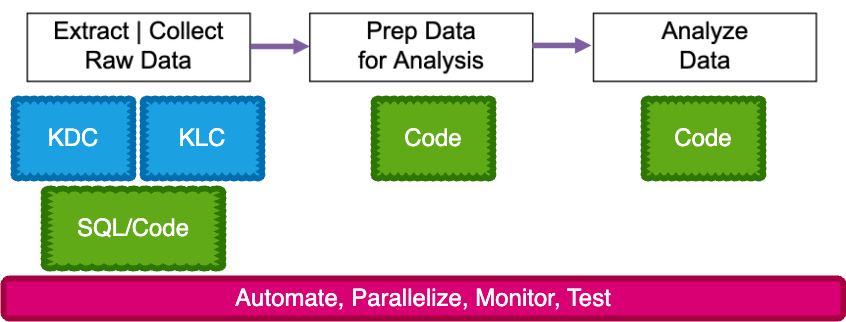
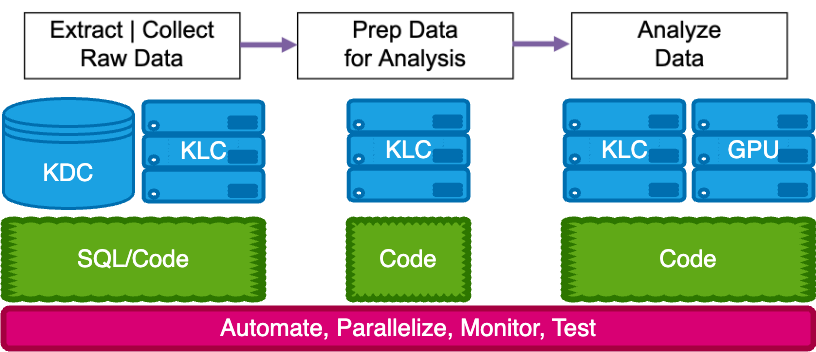
Update documentation

diff --git a/searchindex.js b/searchindex.js
@@ -1,1 +1,1 @@
-Search.setIndex({"alltitles": {"Data Workflow": [[0, null], [1, null], [2, null]], "Final Thoughts": [[4, "final-thoughts"]], "Introduction": [[0, "introduction"]], "Kellogg Data Cloud": [[1, "kellogg-data-cloud"]], "Kellogg Linux Cluster": [[2, "kellogg-linux-cluster"]], "Scaling with GPUs": [[3, "scaling-with-gpus"]], "Welcome": [[5, "welcome"]]}, "docnames": ["introduction", "kdc-datasets", "klc-datasets", "klc-gpus", "takeaways", "welcome"], "envversion": {"sphinx": 61, "sphinx.domains.c": 3, "sphinx.domains.changeset": 1, "sphinx.domains.citation": 1, "sphinx.domains.cpp": 9, "sphinx.domains.index": 1, "sphinx.domains.javascript": 3, "sphinx.domains.math": 2, "sphinx.domains.python": 4, "sphinx.domains.rst": 2, "sphinx.domains.std": 2, "sphinx.ext.intersphinx": 1, "sphinxcontrib.bibtex": 9}, "filenames": ["introduction.md", "kdc-datasets.md", "klc-datasets.md", "klc-gpus.md", "takeaways.md", "welcome.md"], "indexentries": {}, "objects": {}, "objnames": {}, "objtypes": {}, "terms": {"It": [], "The": 5, "Will": 1, "abstract": 0, "acces": 0, "access": [1, 2], "aim": 5, "ambreen": [], "analyz": [], "ani": [], "appli": [], "arg": 2, "argument": 0, "athena": 1, "autom": [0, 1, 2], "aw": 1, "bash": [], "book": 5, "bundl": [], "check": [], "clean": [], "cloud": 5, "cluster": 5, "code": [], "command": 0, "conda": [], "configur": 0, "content": [], "core": 2, "cpu": [], "data": 5, "datafram": 2, "dataset": [1, 2, 5], "datast": 0, "depth": [], "document": [], "doe": [], "duckdb": 2, "effect": 5, "effici": 1, "extract": [], "featur": 0, "feel": [], "few": [], "file": [], "final": 5, "give": 5, "go": [], "gpu": 5, "how": 1, "i": 5, "includ": [0, 2], "inform": [], "introduct": [1, 5], "job": 2, "jupyt": [], "kdc": 5, "kellogg": 5, "klc": [2, 5], "larg": [0, 5], "leverag": 1, "line": 0, "linux": 5, "load": 2, "log": [], "major": [], "memori": 2, "model": [], "monitor": 2, "more": [], "navig": 1, "need": 5, "node": 2, "numer": 1, "odbc": 1, "off": [], "out": [], "page": [], "parallel": 2, "particular": [], "partit": 1, "pipelin": [], "pointer": 1, "process": 0, "python": [], "queri": 1, "quest": [], "recur": [], "replic": 0, "research": 5, "resourc": [], "sampl": [], "scale": 5, "script": 2, "see": [], "show": [], "skill": 5, "slide": [], "slurm": [], "small": [], "some": [], "sql": 1, "structur": [], "support": 5, "test": 0, "theme": [], "thi": 5, "thought": 5, "topic": [], "traci": [], "type": [], "us": [], "usag": 2, "video": 1, "websit": 5, "well": [], "work": 5, "workflow": [], "workshop": 5, "write": 1, "you": 5}, "titles": ["Introduction", "Kellogg Data Cloud", "Kellogg Linux Cluster", "Scaling with GPUs", "Final Thoughts", "Welcome"], "titleterms": {"access": [], "athena": [], "autom": [], "book": [], "cloud": 1, "cluster": 2, "data": [0, 1, 2], "dataset": [], "extract": [], "final": 4, "gpu": 3, "introduct": 0, "job": [], "jupyt": [], "kellogg": [1, 2], "klc": [], "linux": 2, "log": [], "monitor": [], "parallel": [], "process": [], "queri": [], "research": [], "scale": 3, "sql": [], "support": [], "test": [], "thought": 4, "us": [], "welcom": 5, "workflow": [0, 1, 2], "write": [], "your": []}})
+Search.setIndex({"alltitles": {"Data Workflow": [[0, null], [1, null], [2, null], [3, null]], "Final Thoughts": [[4, "final-thoughts"]], "Introduction": [[0, "introduction"]], "Kellogg Data Cloud": [[1, "kellogg-data-cloud"]], "Kellogg Linux Cluster": [[2, "kellogg-linux-cluster"]], "Scaling with GPUs": [[3, "scaling-with-gpus"]], "Welcome": [[5, "welcome"]]}, "docnames": ["introduction", "kdc-datasets", "klc-datasets", "klc-gpus", "takeaways", "welcome"], "envversion": {"sphinx": 61, "sphinx.domains.c": 3, "sphinx.domains.changeset": 1, "sphinx.domains.citation": 1, "sphinx.domains.cpp": 9, "sphinx.domains.index": 1, "sphinx.domains.javascript": 3, "sphinx.domains.math": 2, "sphinx.domains.python": 4, "sphinx.domains.rst": 2, "sphinx.domains.std": 2, "sphinx.ext.intersphinx": 1, "sphinxcontrib.bibtex": 9}, "filenames": ["introduction.md", "kdc-datasets.md", "klc-datasets.md", "klc-gpus.md", "takeaways.md", "welcome.md"], "indexentries": {}, "objects": {}, "objnames": {}, "objtypes": {}, "terms": {"It": [], "The": 5, "Will": 1, "abstract": 0, "acces": 0, "access": [1, 2], "aim": 5, "ambreen": [], "analyz": [], "ani": [], "appli": [], "arg": 2, "argument": 0, "athena": 1, "autom": [0, 1, 2], "aw": 1, "bash": [], "book": 5, "bundl": [], "check": [], "clean": [], "cloud": 5, "cluster": 5, "code": [], "command": 0, "conda": [], "configur": 0, "content": [], "core": 2, "cpu": [], "data": 5, "datafram": 2, "dataset": [1, 2, 5], "datast": 0, "depth": [], "document": [], "doe": [], "duckdb": 2, "effect": 5, "effici": 1, "extract": [], "featur": 0, "feel": [], "few": [], "file": [], "final": 5, "give": 5, "go": [], "gpu": 5, "how": 1, "i": 5, "includ": [0, 2], "inform": [], "introduct": [1, 5], "job": 2, "jupyt": [], "kdc": 5, "kellogg": 5, "klc": [2, 5], "larg": [0, 5], "leverag": 1, "line": 0, "linux": 5, "load": 2, "log": [], "major": [], "memori": 2, "model": [], "monitor": 2, "more": [], "navig": 1, "need": 5, "node": 2, "numer": 1, "odbc": 1, "off": [], "out": [], "page": [], "parallel": 2, "particular": [], "partit": 1, "pipelin": [], "pointer": 1, "process": 0, "python": [], "queri": 1, "quest": [], "recur": [], "replic": 0, "research": 5, "resourc": [], "sampl": [], "scale": 5, "script": 2, "see": [], "show": [], "skill": 5, "slide": [], "slurm": [], "small": [], "some": [], "sql": 1, "structur": [], "support": 5, "test": 0, "theme": [], "thi": 5, "thought": 5, "topic": [], "traci": [], "type": [], "us": [], "usag": 2, "video": 1, "websit": 5, "well": [], "work": 5, "workflow": [], "workshop": 5, "write": 1, "you": 5}, "titles": ["Introduction", "Kellogg Data Cloud", "Kellogg Linux Cluster", "Scaling with GPUs", "Final Thoughts", "Welcome"], "titleterms": {"access": [], "athena": [], "autom": [], "book": [], "cloud": 1, "cluster": 2, "data": [0, 1, 2, 3], "dataset": [], "extract": [], "final": 4, "gpu": 3, "introduct": 0, "job": [], "jupyt": [], "kellogg": [1, 2], "klc": [], "linux": 2, "log": [], "monitor": [], "parallel": [], "process": [], "queri": [], "research": [], "scale": 3, "sql": [], "support": [], "test": [], "thought": 4, "us": [], "welcom": 5, "workflow": [0, 1, 2, 3], "write": [], "your": []}})

diff --git a/klc-gpus.html b/klc-gpus.html
@@ -382,6 +382,12 @@ document.write(`
                   
   <section class="tex2jax_ignore mathjax_ignore" id="scaling-with-gpus">
 <h1>Scaling with GPUs<a class="headerlink" href="#scaling-with-gpus" title="Link to this heading">#</a></h1>
+<div class="note admonition">
+<p class="admonition-title">Data Workflow</p>
+<figure class="align-default" id="data-workflow-gpu">
+<a class="reference internal image-reference" href="_images/data-workflow-gpu.png"><img alt="_images/data-workflow-gpu.png" src="_images/data-workflow-gpu.png" style="width: 900px;" /></a>
+</figure>
+</div>
 </section>
 
     <script type="text/x-thebe-config">

diff --git a/_sources/klc-gpus.md b/_sources/klc-gpus.md
@@ -1,1 +1,11 @@
 # Scaling with GPUs
+
+:::{admonition} Data Workflow
+:class: note
+
+```{figure} ./images/data-workflow-gpu.png
+---
+width: 900px
+name: data-workflow-gpu
+---
+```
